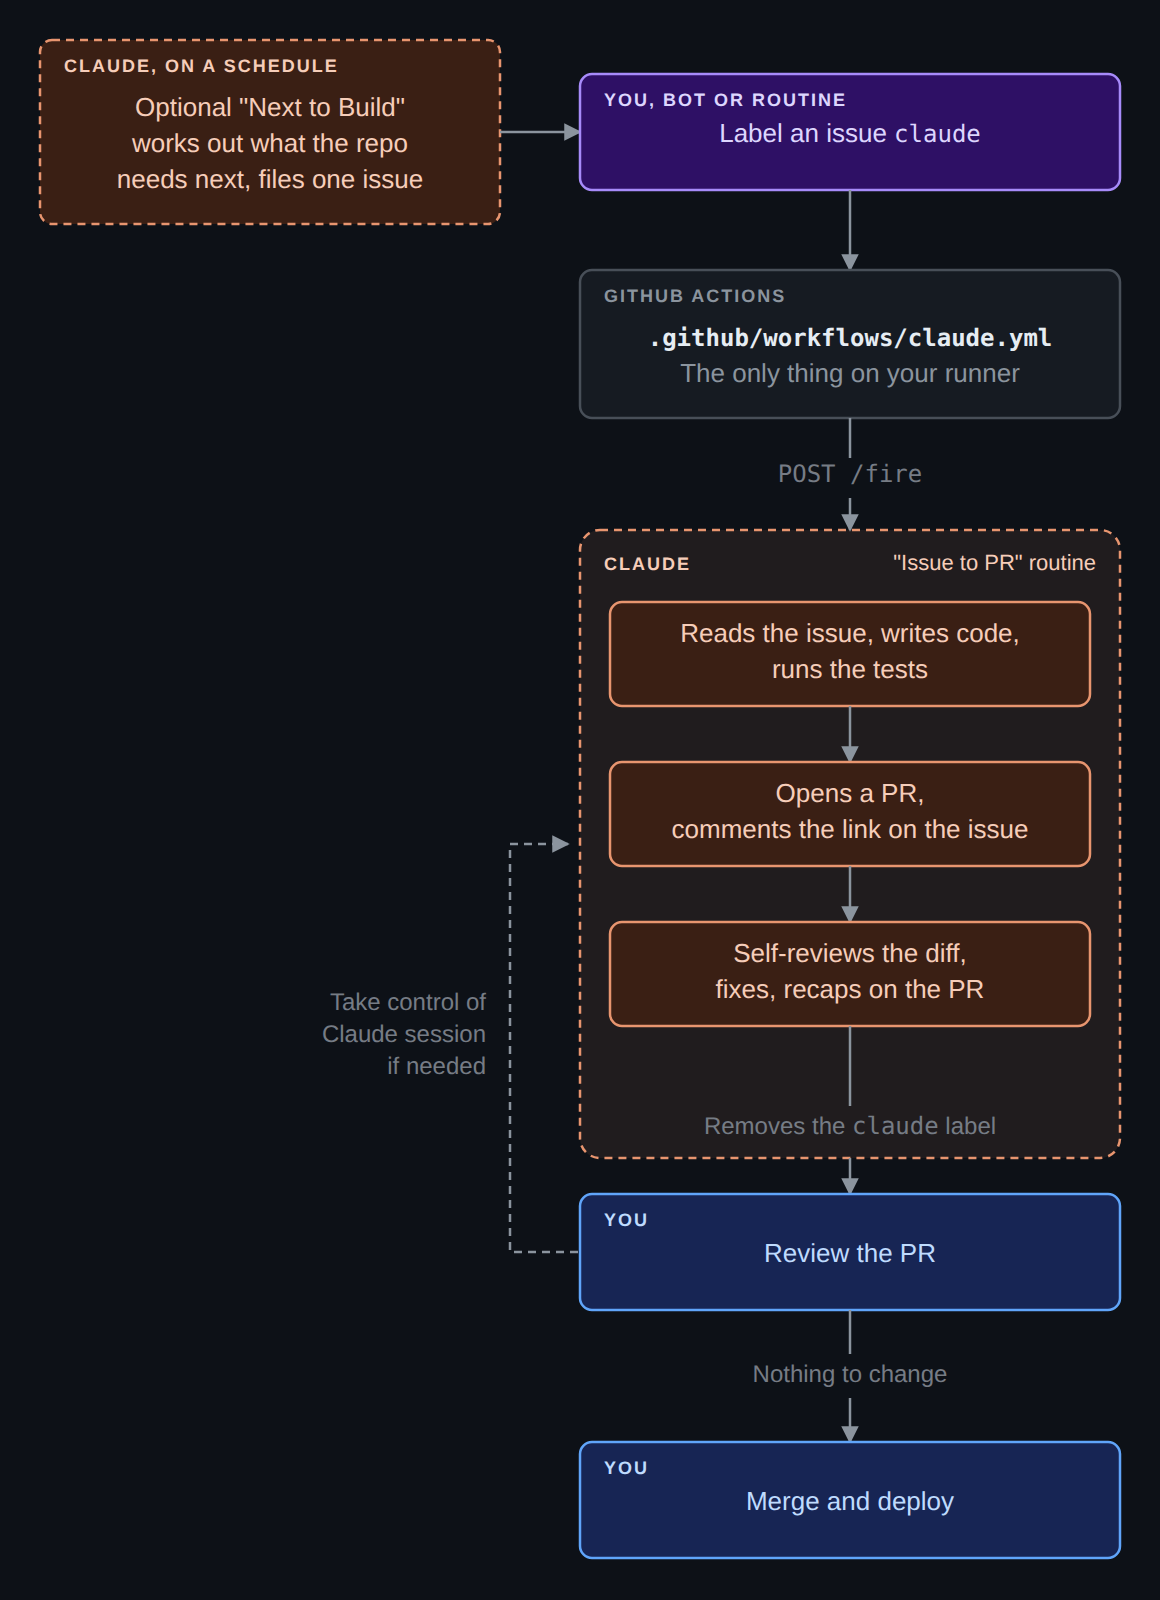
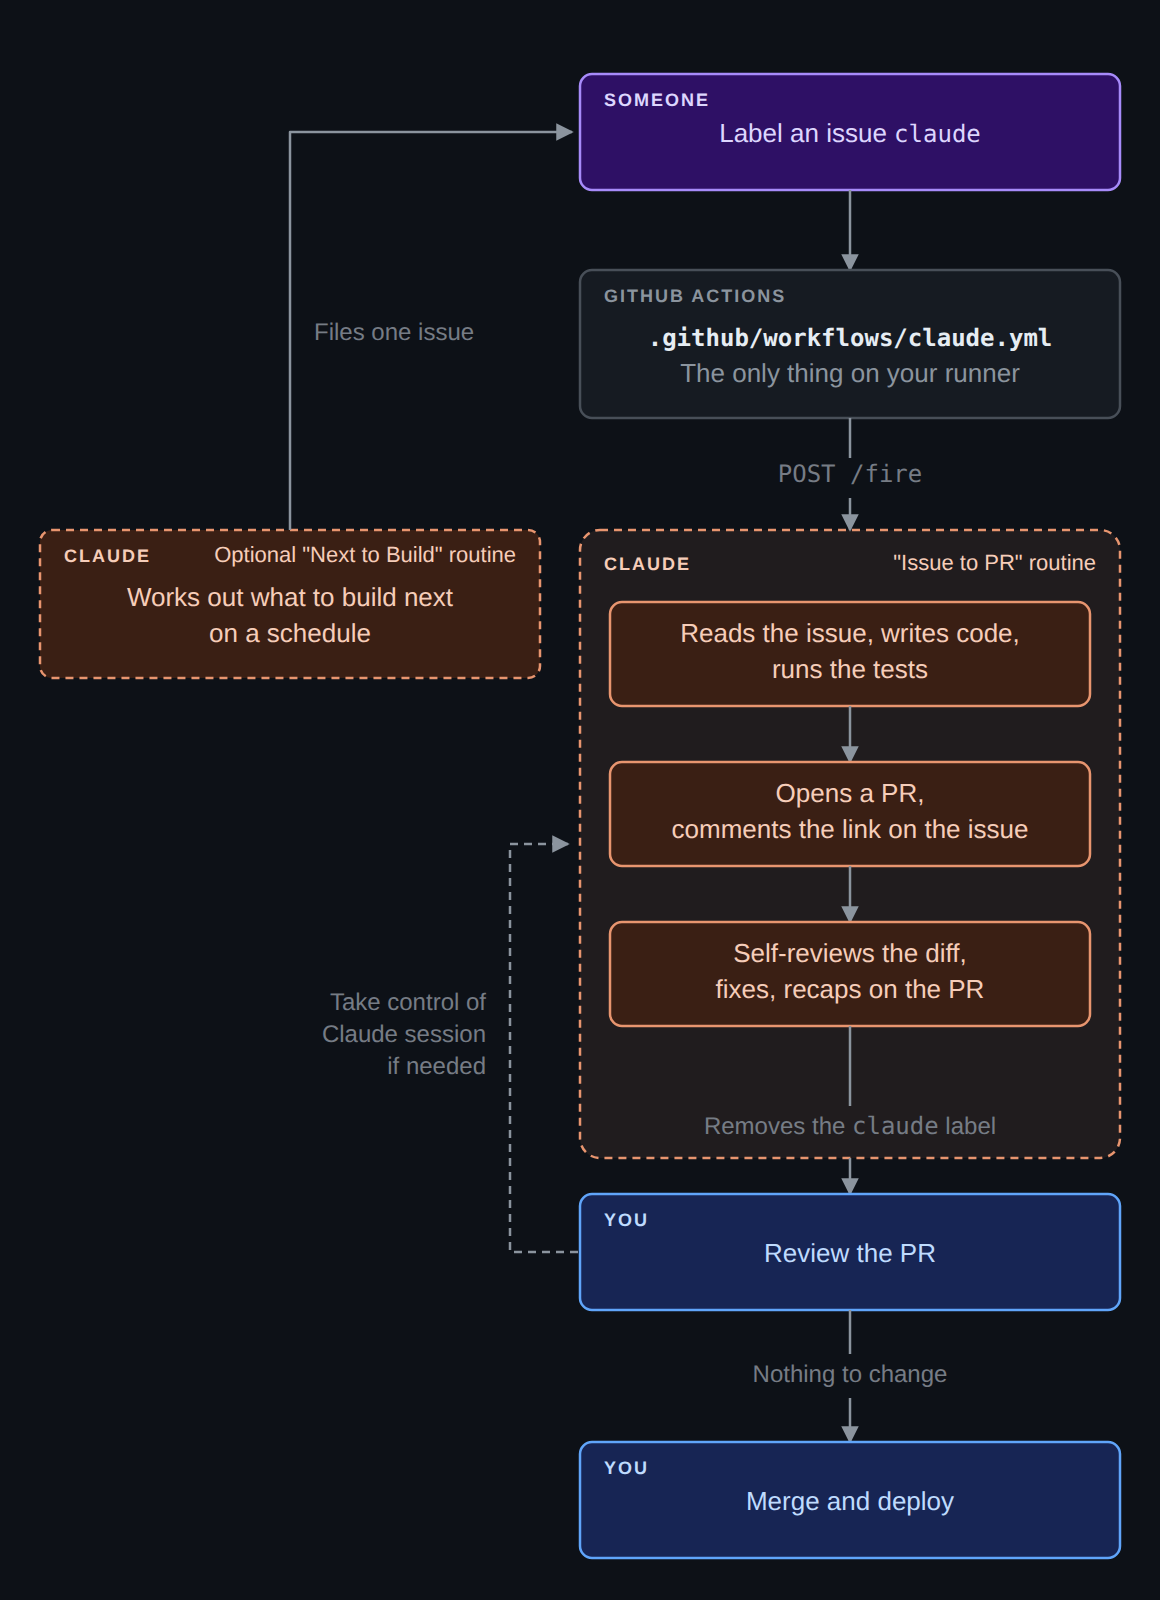
Level the Next to Build box with the routine it feeds and simplify the labeler
Claude-Session: https://claude.ai/code/session_01DQS8Sza5PYpUe81doZH9zT

Changed region(s): [[0.031, 0.0, 0.4655, 0.4375], [0.5586, 0.0312, 0.5897, 0.0625], [0.4655, 0.0625, 0.4966, 0.0938]]

diff --git a/README.md b/README.md
@@ -128,7 +128,7 @@ It labels the issue as your GitHub user through the Claude GitHub App, so the la
 <p align="center">
   <picture>
     <source media="(prefers-color-scheme: dark)" srcset="docs/how-it-works-dark.svg">
-    <img src="docs/how-it-works-light.svg" width="580" alt="Optionally, the Next to Build routine wakes on a schedule, works out what the repo needs next and files one issue. A human, a bot, or that routine labels an issue claude; a GitHub Actions workflow POSTs /fire; the Issue to PR routine reads the issue, writes code, runs the tests, opens a PR, self-reviews it and removes the label. The human reviews the PR: if nothing needs to change they merge and deploy, otherwise they take control of the Claude session.">
+    <img src="docs/how-it-works-light.svg" width="580" alt="Optionally, the Next to Build routine works out what to build next on a schedule and files one issue. Someone — a human, a bot, or that routine — labels an issue claude; a GitHub Actions workflow POSTs /fire; the Issue to PR routine reads the issue, writes code, runs the tests, opens a PR, self-reviews it and removes the label. The human reviews the PR: if nothing needs to change they merge and deploy, otherwise they take control of the Claude session.">
   </picture>
   <br/><sub><a href="https://claude.ai/artifact/L4yVFvUXqjVQN1fyGa4hPv">Source</a></sub>
 </p>
